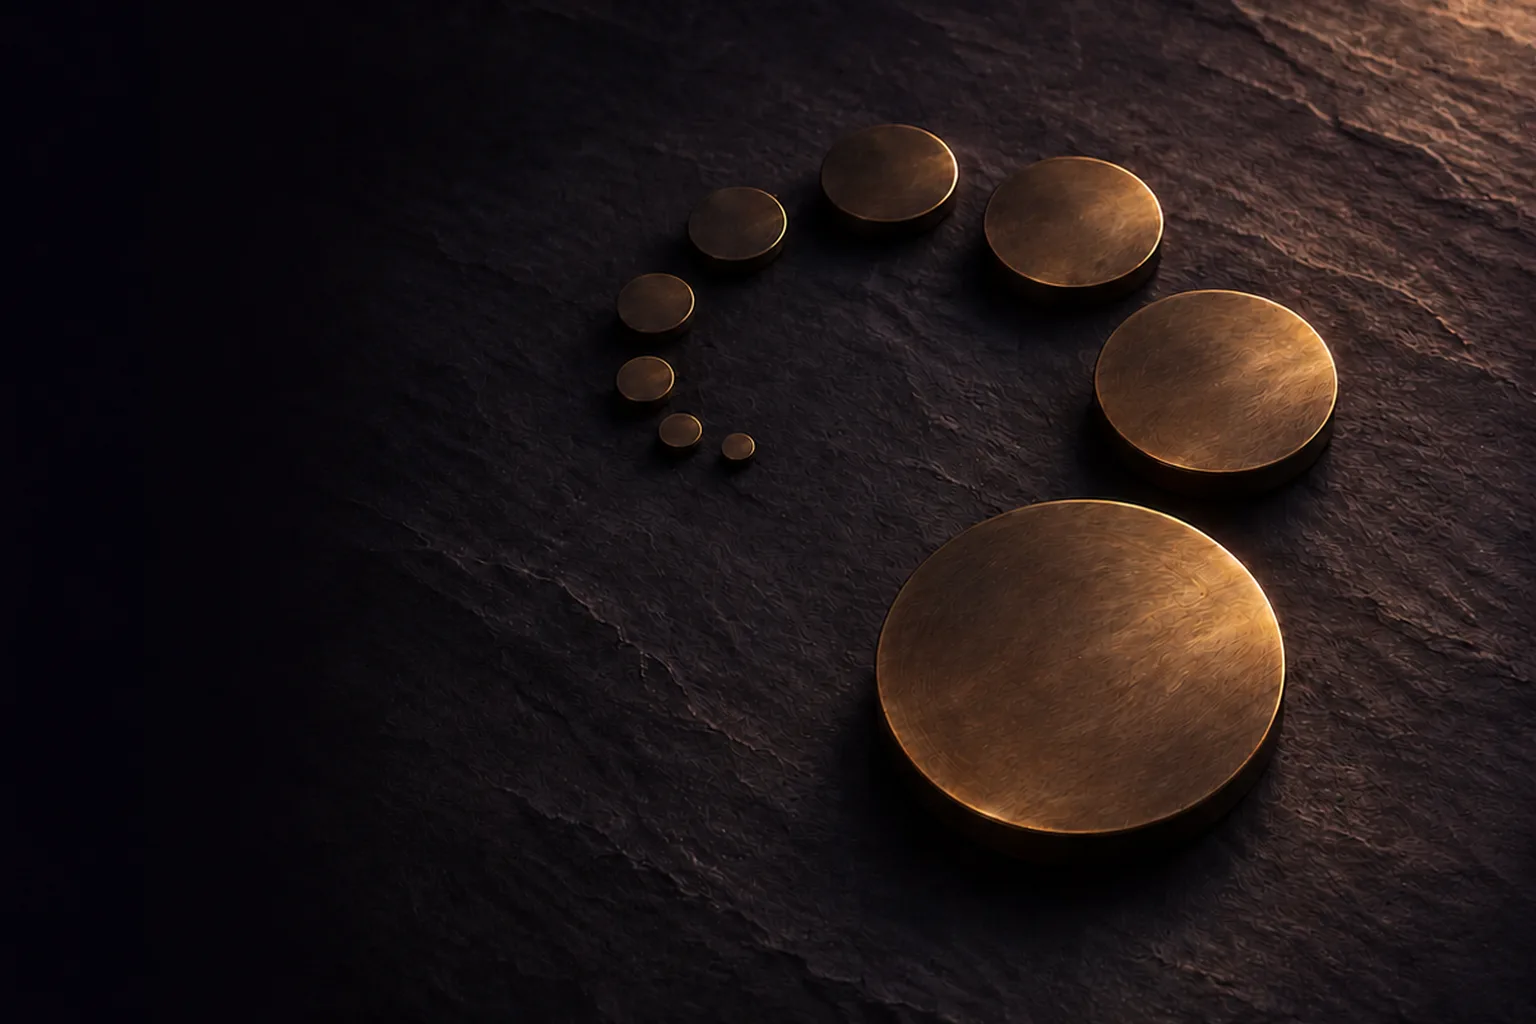
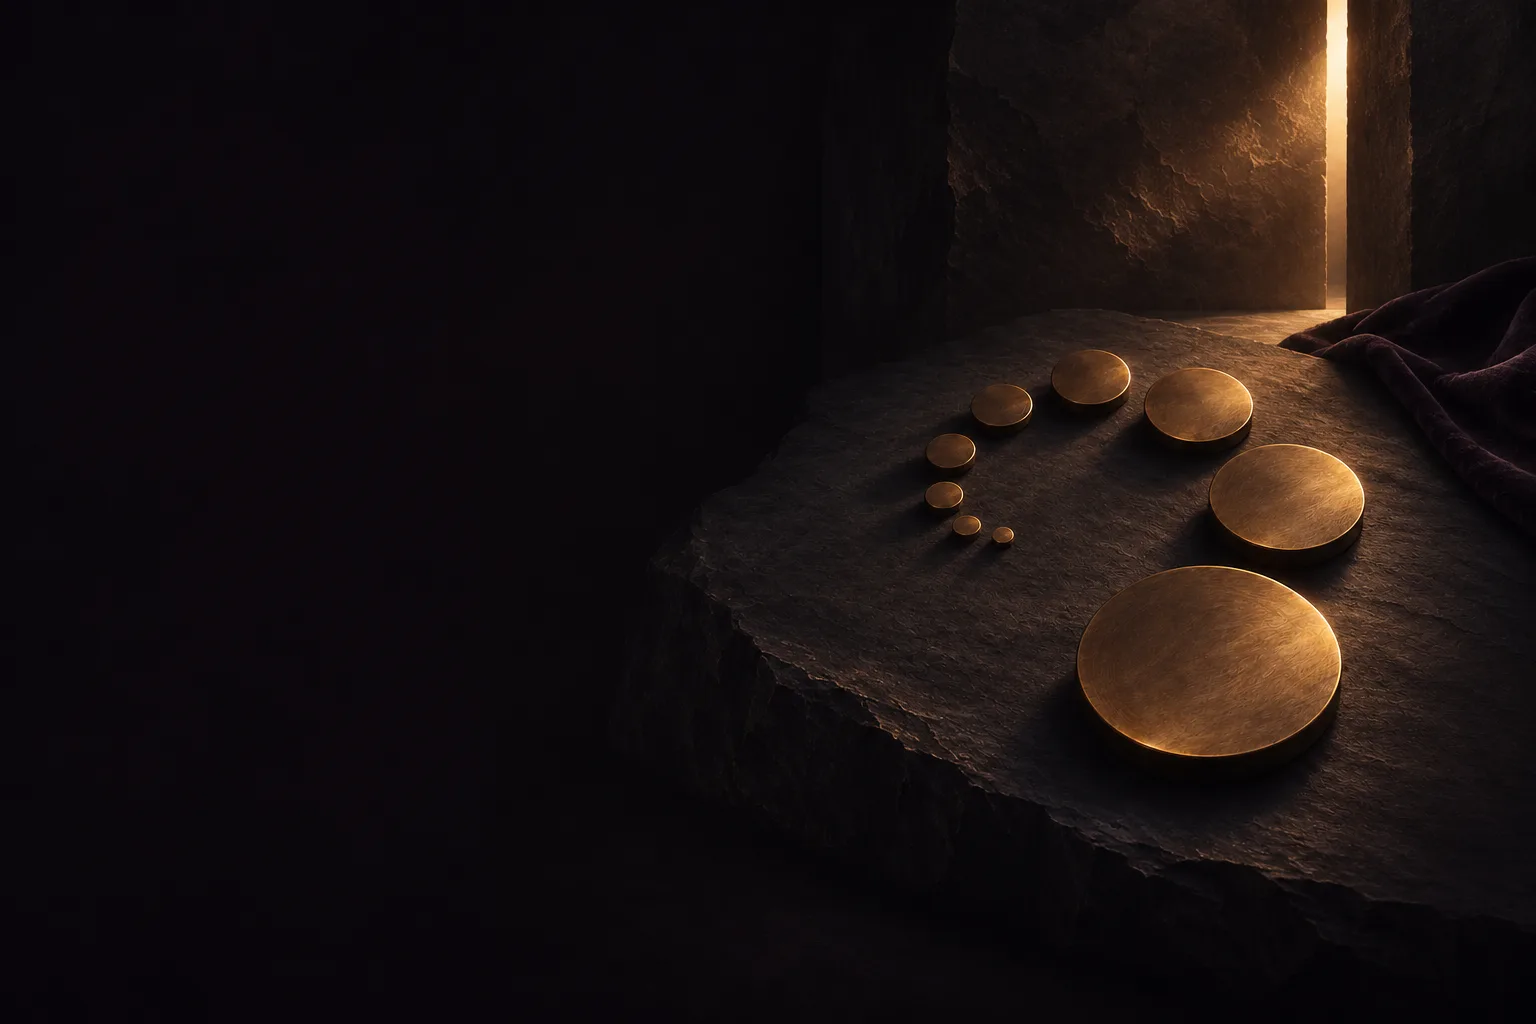
style(web): give numerology a full-width hero scene

diff --git a/apps/web/src/app/numerologiya/numerology.css b/apps/web/src/app/numerologiya/numerology.css
@@ -1,3 +1,24 @@
+.numerology-page.numerology-landing {
+  --numerology-scene-height: clamp(580px, 56vw, var(--practice-hero-height));
+  position: relative;
+  isolation: isolate;
+  max-width: none;
+  padding-inline: max(28px, calc((100% - 1144px) / 2));
+}
+
+.numerology-landing::before {
+  content: "";
+  position: absolute;
+  inset: 0 0 auto;
+  z-index: -1;
+  height: var(--numerology-scene-height);
+  pointer-events: none;
+  background:
+    linear-gradient(0deg, var(--bg), var(--scrim-clear) 32%),
+    linear-gradient(90deg, var(--practice-hero-shade-start), var(--practice-hero-shade-middle) 43%, var(--practice-hero-shade-edge) 75%, var(--scrim-clear)),
+    url('/images/numerology/numerology-hero.webp') 68% 52% / cover;
+}
+
 .numerology-page .year-breadcrumb {
   flex-wrap: wrap;
   column-gap: 12px;
@@ -19,7 +40,8 @@
 .numerology-page .year-hero {
   grid-template-columns: minmax(0, 1.2fr) minmax(0, 1fr);
   gap: clamp(24px, 5vw, 72px);
-  padding-block: 24px 56px;
+  min-height: calc(var(--numerology-scene-height) - 60px);
+  padding-block: 24px 40px;
 }
 
 .numerology-page .year-hero .eyebrow {
@@ -39,23 +61,29 @@
 }
 
 .numerology-page .year-hero__art {
-  width: min(100%, 450px);
-  justify-self: center;
-  background:
-    radial-gradient(ellipse at center, var(--scrim) 4%, var(--scrim-clear) 62%),
-    url('/images/numerology/numerology-hero.webp') 65% center / cover;
-  box-shadow: inset 0 0 0 8px var(--bg), inset 0 0 0 9px var(--accent-line);
-  color: var(--ink);
+  align-self: end;
+  justify-self: end;
+  aspect-ratio: auto;
+  margin-inline-end: clamp(0px, 3vw, 44px);
+  padding: 10px 0 0 24px;
+  border: 0;
+  border-top: 1px solid var(--accent-line);
+  border-radius: 0;
+  background: none;
+  box-shadow: none;
+  align-items: flex-end;
+  text-align: right;
 }
 
 .numerology-page .year-hero__art span {
-  font-size: clamp(76px, 8vw, 116px);
+  font-size: clamp(30px, 4vw, 52px);
   line-height: 1;
 }
 
 .numerology-page .year-hero__art p {
-  margin: 8px 0 0;
-  color: var(--ink);
+  margin: 4px 0 0;
+  color: var(--ink-soft);
+  font-size: 14px;
   line-height: 1.45;
 }
 
@@ -327,7 +355,19 @@
 }
 
 @media (max-width: 760px) {
+  .numerology-page.numerology-landing {
+    --numerology-scene-height: 540px;
+    padding-inline: 16px;
+  }
+
+  .numerology-landing::before {
+    background:
+      linear-gradient(0deg, var(--bg), var(--practice-hero-shade-mobile) 46%),
+      url('/images/numerology/numerology-hero.webp') 70% center / cover;
+  }
+
   .numerology-page .year-hero {
+    min-height: 0;
     padding-block: 14px 32px;
   }
 

diff --git a/apps/web/src/app/numerologiya/lichnyy-god-2027/page.tsx b/apps/web/src/app/numerologiya/lichnyy-god-2027/page.tsx
@@ -42,7 +42,7 @@ export default function PersonalYearPage() {
   };
   return <>
     <script type="application/ld+json" dangerouslySetInnerHTML={{ __html: jsonLdScript(data) }} />
-    <main className="year-page numerology-page">
+    <main className="year-page numerology-page numerology-landing">
       <nav aria-label="Хлебные крошки" className="year-breadcrumb"><Link href="/">Главная</Link><span aria-hidden="true">/</span><Link href={NUMEROLOGY_PATH}>Нумерология</Link><span aria-hidden="true">/</span><span>Личный год 2027</span></nav>
       <PersonalYearCalculator summaries={summaries} />
       <section className="year-guide" aria-labelledby="personal-year-guide-title">

diff --git a/apps/web/src/app/numerologiya/page.tsx b/apps/web/src/app/numerologiya/page.tsx
@@ -41,7 +41,7 @@ export default function NumerologyPage() {
   };
   return <>
     <script type="application/ld+json" dangerouslySetInnerHTML={{ __html: jsonLdScript(data) }} />
-    <main className="year-page numerology-page">
+    <main className="year-page numerology-page numerology-landing">
       <nav aria-label="Хлебные крошки" className="year-breadcrumb"><Link href="/">Главная</Link><span aria-hidden="true">/</span><span>Нумерология</span></nav>
       <FateCalculator summaries={summaries} />
       <section className="year-guide" aria-labelledby="fate-guide-title">
